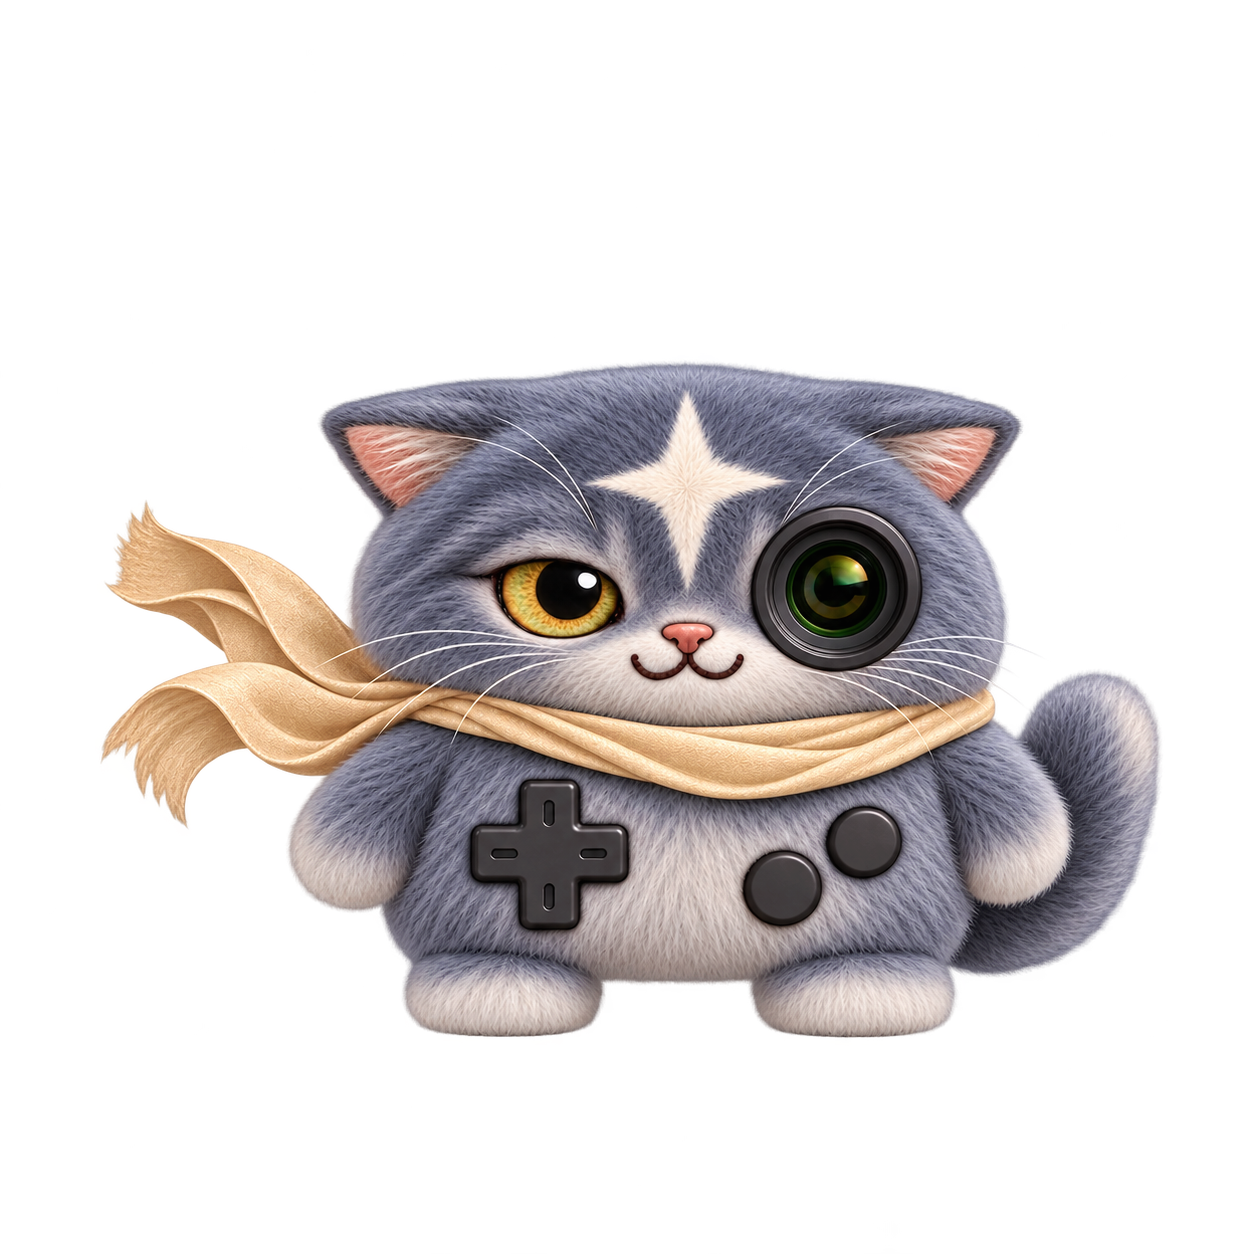
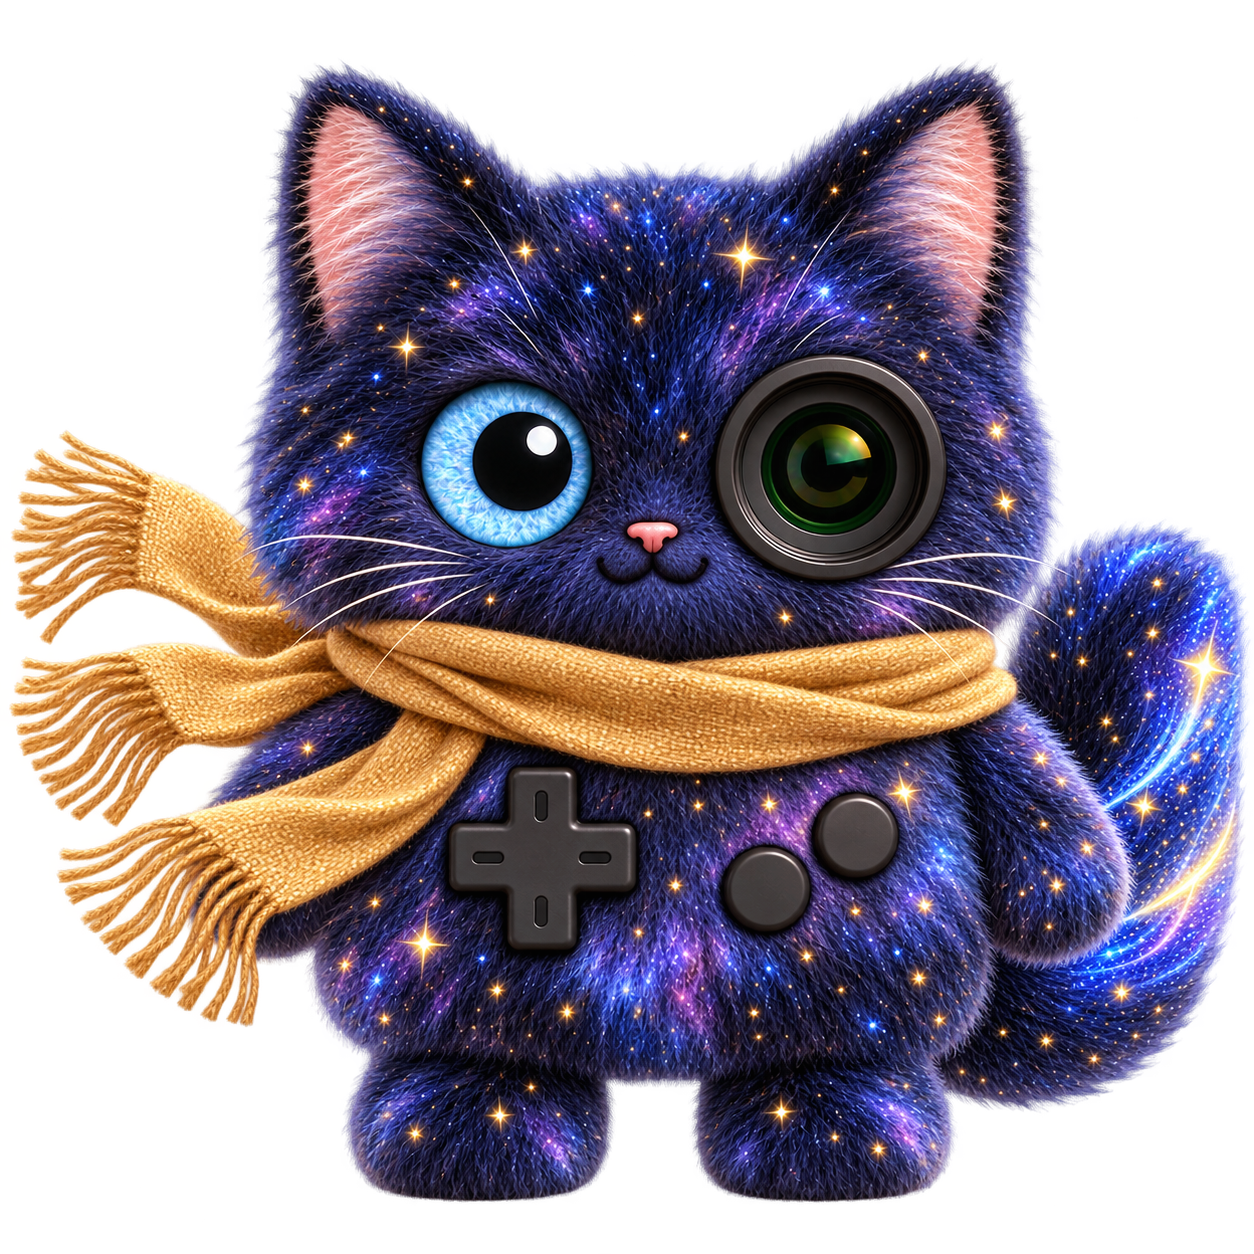
Give starry traveling Mobby a golden travel scarf

diff --git a/assets/cat-mobbies/provenance/prompts-traveler-starry.md b/assets/cat-mobbies/provenance/prompts-traveler-starry.md
@@ -1,0 +1,9 @@
+# 星空ベースの旅するモビー
+
+ユーザーの追加指定「星空ってやつにスカーフ巻いて旅人っぽくして」により、前案の独自性要件よりhoshizoraの姿の保持を優先。hoshizora原本は変更せず、traveling-mobbyのみ差し替える。星のネックレスは外し、金色の旅スカーフ1つを追加。
+
+Built-in image_gen, transparent_background=true. References: bengal.png / ragdoll.png / new/c/hoshizora.png. Generated output copied unchanged.
+
+## Prompt
+
+Edit reference3 HOSHIZORA into the traveling-mobby requested by user: preserve this exact starry midnight indigo and violet long furry cat, scattered tiny golden stars embedded through fur, bright icy blue biological eye viewer LEFT, cute tiny pink nose and W mouth, upright cat ears, luminous starry curved tail. Add ONE handsome warm SAND-GOLD travel scarf wrapped at upper chest, long windswept fringed scarf ends streaming viewer LEFT outside body. Remove existing star necklace completely; scarf is only accessory. Preserve exact Mobby unified rounded-square head/body without neck, short arms and two short feet, exactly ONE biological eye viewer LEFT, exactly ONE black concentric camera lens with GREEN reflective glass viewer RIGHT, one black cross D-pad lower LEFT, exactly TWO plain black circular buttons diagonally lower RIGHT. Scarf must NOT cover eye, camera lens, D-pad or buttons. References1 bengal and2 ragdoll are anatomy and realistic fur/hardware references ONLY; do not copy their coat. Main edit target reference3 is the starry cat and must remain recognizable as that cat, just dressed as an elegant adventurous traveler. No backpack, extra camera, map or other objects, no white forehead compass marking. Full-body front view, centered with at least 80px transparent margin around ALL appendages including scarf and tail. 1254x1254 RGBA PNG, real transparent background, soft studio light. No text, watermark, floor or grid. Rich realistic individual fur strands.

diff --git a/assets/cat-mobbies/review/traveler.md b/assets/cat-mobbies/review/traveler.md
@@ -43,3 +43,6 @@ Aの初回生成で HTTP 429 usage_limit_reached。解除予定は2026-10-26 21:
 1254×1254 RGBA、alpha 0〜255を確認。主な可視画素(alpha>16)のbboxは[100,360,1163,1038]で、左右約100pxの余白あり。alpha最小値付近のごく薄い生成画素はキャンバス端にも存在するため、完全な無画素の外周とはしない。生成アルファをそのまま保持した。ハッシュとサイズはtraveler-validation.jsonおよびmanifestに記録。
 
 変更は指定の猫画像、manifest該当エントリ、review/traveler-*、provenanceの記録のみ。アプリ組み込みは実施しない。
+
+## ユーザー追加指定による最終差し替え
+星空モビーをベースにスカーフを巻く指定を受け、上記のA採用画像を星空版へ置換。元のhoshizoraは保持し、星空の毛並みと青目を継承。金色スカーフを追加して星の首飾りを外した。既存hoshizoraとの類似はユーザー指定による意図的なもの。1254角RGBA透過、片目1・レンズ1・十字キー1・黒丸ボタン2を確認。traveler-starry-comparison.pngに元画像と120pxの比較を保存。以前のtraveler-final-*はA案の履歴として保持。最新の採用画像はnew/g/traveling-mobby.png。
